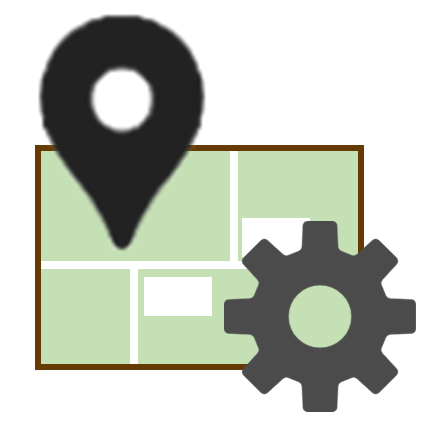
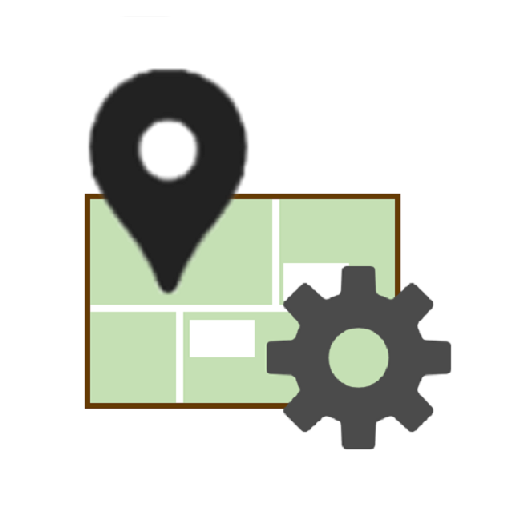
アイコン画像サイズ変更

diff --git a/macos/Flutter/GeneratedPluginRegistrant.swift b/macos/Flutter/GeneratedPluginRegistrant.swift
@@ -5,8 +5,12 @@
 import FlutterMacOS
 import Foundation
 
+import file_selector_macos
+import path_provider_foundation
 import sqflite
 
 func RegisterGeneratedPlugins(registry: FlutterPluginRegistry) {
+  FileSelectorPlugin.register(with: registry.registrar(forPlugin: "FileSelectorPlugin"))
+  PathProviderPlugin.register(with: registry.registrar(forPlugin: "PathProviderPlugin"))
   SqflitePlugin.register(with: registry.registrar(forPlugin: "SqflitePlugin"))
 }

diff --git a/linux/flutter/generated_plugin_registrant.cc b/linux/flutter/generated_plugin_registrant.cc
@@ -6,6 +6,10 @@
 
 #include "generated_plugin_registrant.h"
 
+#include <file_selector_linux/file_selector_plugin.h>
 
 void fl_register_plugins(FlPluginRegistry* registry) {
+  g_autoptr(FlPluginRegistrar) file_selector_linux_registrar =
+      fl_plugin_registry_get_registrar_for_plugin(registry, "FileSelectorPlugin");
+  file_selector_plugin_register_with_registrar(file_selector_linux_registrar);
 }

diff --git a/windows/flutter/generated_plugin_registrant.cc b/windows/flutter/generated_plugin_registrant.cc
@@ -6,6 +6,9 @@
 
 #include "generated_plugin_registrant.h"
 
+#include <file_selector_windows/file_selector_windows.h>
 
 void RegisterPlugins(flutter::PluginRegistry* registry) {
+  FileSelectorWindowsRegisterWithRegistrar(
+      registry->GetRegistrarForPlugin("FileSelectorWindows"));
 }
